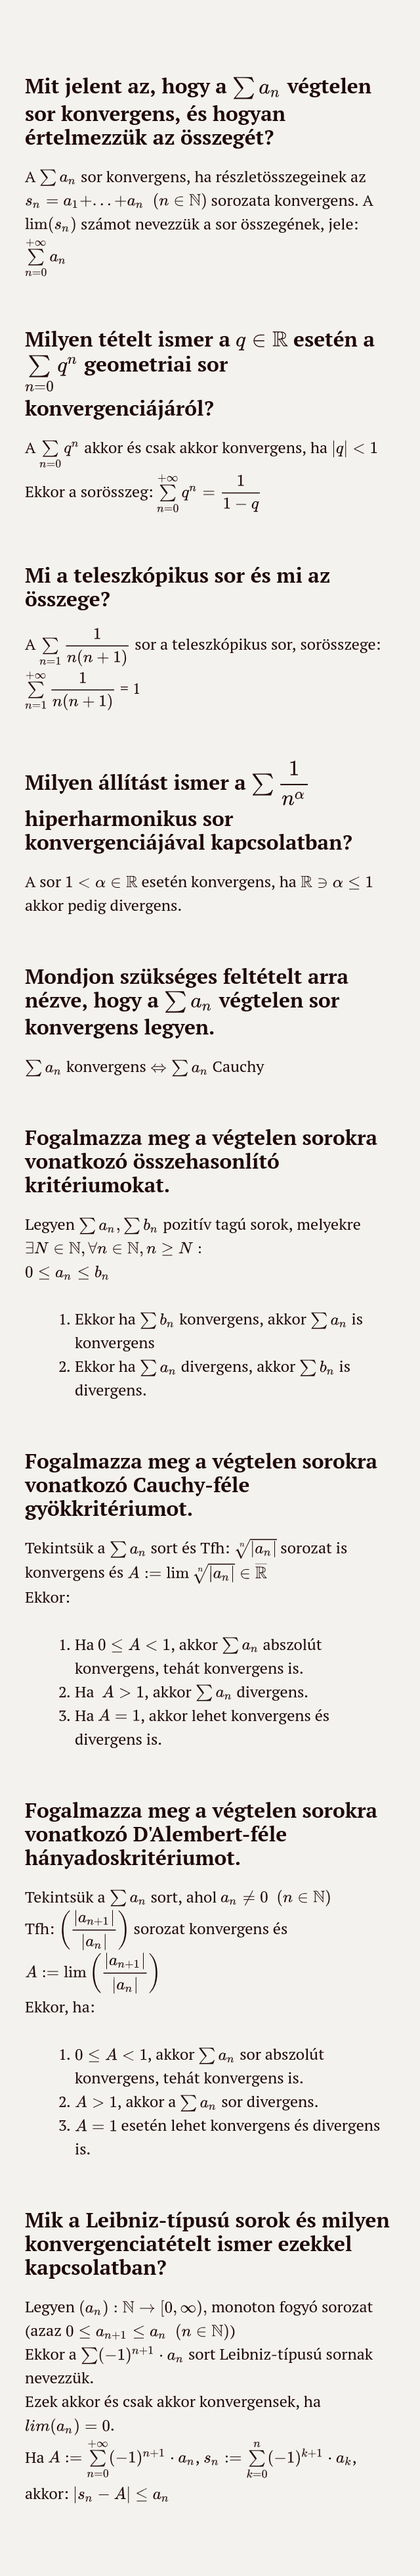
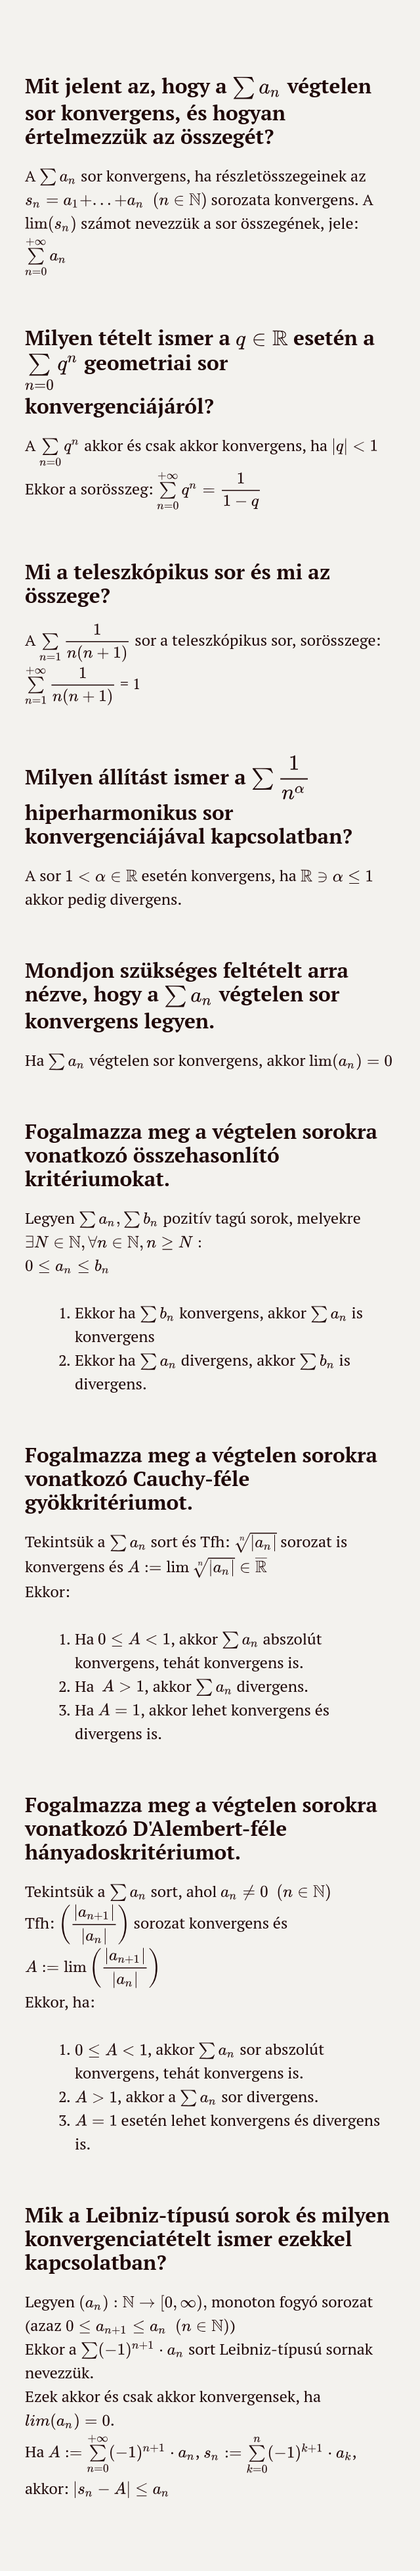
Fixed 8_definiciok

diff --git a/2_félév/analízis/8_definiciok.md b/2_félév/analízis/8_definiciok.md
@@ -1,6 +1,6 @@
 ## Mit jelent az, hogy a $\sum a_n$ végtelen sor konvergens, és hogyan értelmezzük az összegét?
 
-A $\sum a_n$ sor konvergens, ha részletösszegeinek az $s_n = a_1 + ... + a_n\ \ (n \in \N)$ sorozata konvergens. A $\lim(s_n)$ számot nevezzük a sor összegének, jele: $\overset{+\infty}{\underset{n=0}{\sum}} a_n$
+A $\sum a_n$ sor konvergens, ha részletösszegeinek az $s_n = a_1 + ... + a_n\ \ (n \in \N)$ sorozata konvergens. A $\lim(s_n)$ számot nevezzük a sor összegének, jele: $\overset{+\infty}{\underset{n=0}{\sum}} a_n$
 
 ## Milyen tételt ismer a $q \in \R$ esetén a $\underset{n=0}{\sum} q^n$ geometriai sor konvergenciájáról?
 
@@ -18,7 +18,7 @@ A sor $1 < \alpha \in \R$ esetén konvergens, ha $\R \ni \alpha \le 1$ akkor ped
 
 ## Mondjon szükséges feltételt arra nézve, hogy a $\sum a_n$ végtelen sor konvergens legyen.
 
-$\sum a_n$ konvergens $\Leftrightarrow \sum a_n$ Cauchy 
+Ha $\sum a_n$ végtelen sor konvergens, akkor $\lim(a_n) = 0$
 
 ## Fogalmazza meg a végtelen sorokra vonatkozó összehasonlító kritériumokat.
 
@@ -39,8 +39,8 @@ Ekkor:
 
 ## Fogalmazza meg a végtelen sorokra vonatkozó D'Alembert-féle hányadoskritériumot.
 
-Tekintsük a $\sum a_n$ sort, ahol $a_n \ne 0\ \ (n \in \N)$
-Tfh: $\left(\dfrac{|a_{n+1}|}{|a_n|}\right)$ sorozat konvergens és $A := \lim\left(\dfrac{|a_{n+1}|}{|a_n|}\right)$
+Tekintsük a $\sum a_n$ sort, ahol $a_n \ne 0\ \ (n \in \N)$
+Tfh: $\left(\dfrac{|a_{n+1}|}{|a_n|}\right)$ sorozat konvergens és $A := \lim\left(\dfrac{|a_{n+1}|}{|a_n|}\right)$
 Ekkor, ha:
 
 1. $0 \le A < 1$, akkor $\sum a_n$ sor abszolút konvergens, tehát konvergens is.
